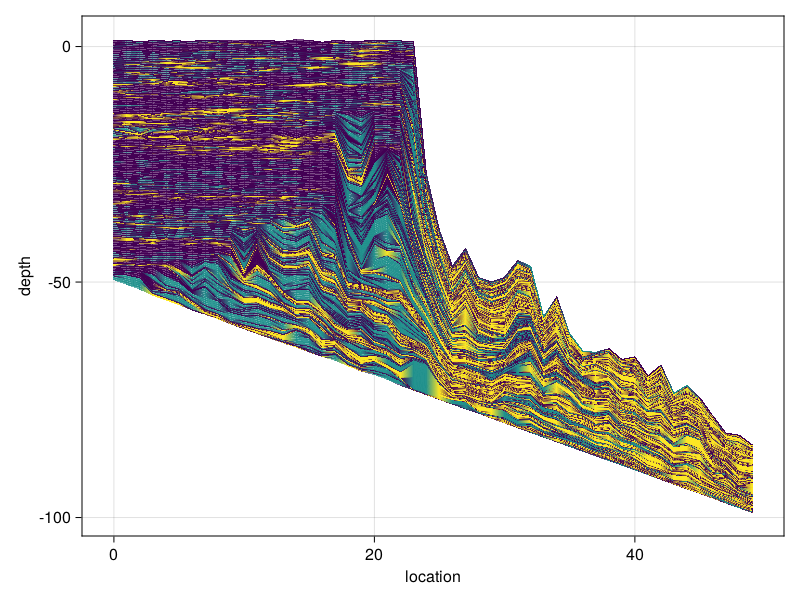
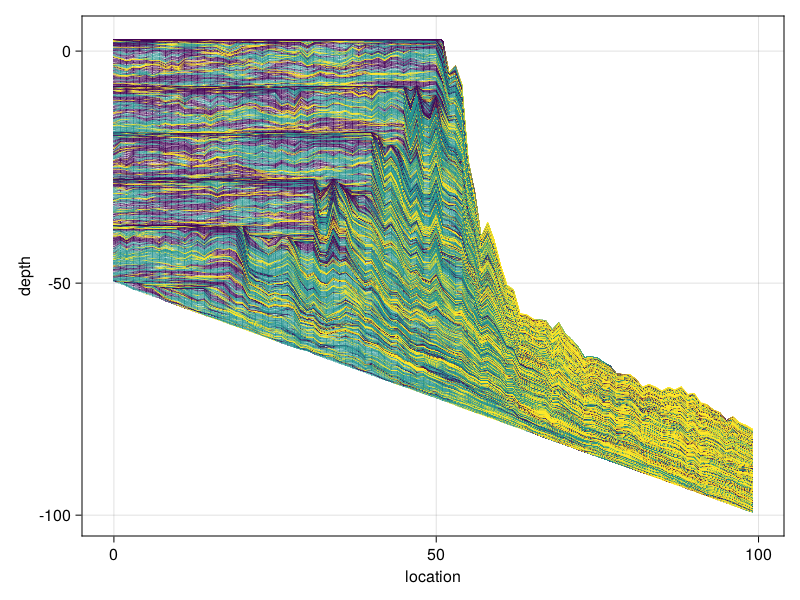
example with varying sealevel

diff --git a/docs/src/ca-with-production.md b/docs/src/ca-with-production.md
@@ -260,6 +260,32 @@ DEFAULT_INPUT = Input(
 main(DEFAULT_INPUT, "data/ca-prod-slope.h5")
 ```
 
+## Case 3
+Now add an oscillating sea level.
+
+``` {.julia file=examples/caps-osc.jl}
+using CarboKitten.CaProd
+
+DEFAULT_INPUT = Input(
+    sea_level = t -> 4 * sin(2π * t / 0.2), 
+    subsidence_rate = 50.0,
+    initial_depth = x -> x / 2,
+    grid_size = (50, 100),
+    phys_scale = 1.0,
+    Δt = 0.0001,
+    write_interval = 10,
+    time_steps = 10000,
+    facies = [
+        Facies((4, 10), (6, 10), 500.0, 0.8, 300),
+        Facies((4, 10), (6, 10), 400.0, 0.1, 300),
+        Facies((4, 10), (6, 10), 100.0, 0.005, 300)
+    ],
+    insolation = 2000.0
+)
+
+main(DEFAULT_INPUT, "data/caps-osc.h5")
+```
+
 # Visualizing output
 
 ![](crosssection.png)
